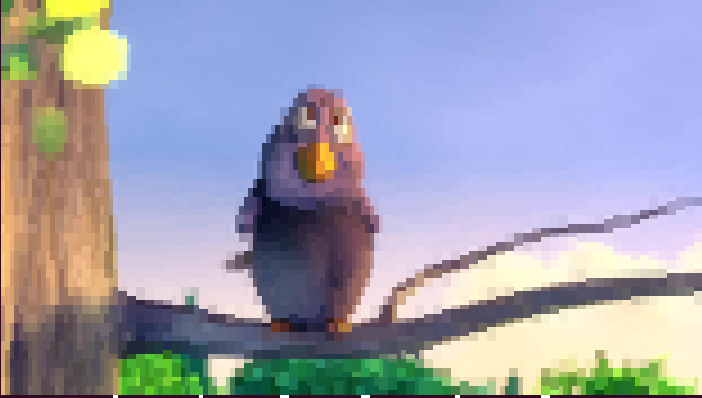
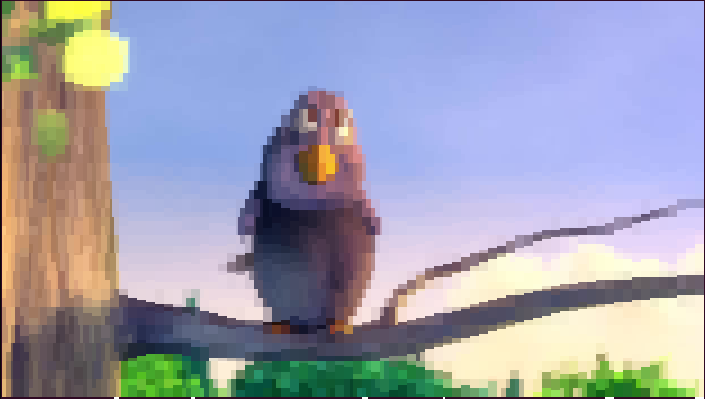
better results with bigger char collapse window

diff --git a/my-poc-helper.py b/my-poc-helper.py
@@ -21,6 +21,12 @@ def fg_rgb(r: int , g: int , b: int) -> str:
 def bg_rgb(r: int , g: int , b: int) -> str:
     return f"\u001b[48;2;{r};{g};{b}m"
 
+def fg_gray(gray: int) -> str:
+    return f"\u001b[38;2;{gray};{gray};{gray}m"
+
+def bg_gray(gray: int) -> str:
+    return f"\u001b[48;2;{gray};{gray};{gray}m"
+
 def color_reset() -> str:
     return "\u001b[0m"
 
@@ -187,10 +193,12 @@ BLOCK_CHAR = {
 STATS = {}
 
 class CharWindow:
-    """Char collapse window: 4x2 (rows x cols) sized pixel"""
+    """Char collapse window: RxC (rows x cols) sized pixel"""
+    R, C = 8, 4 #4, 2  # rows, cols
     
     def __init__(self) -> None:
         self.char_window_rgb = [] # list of rgb tuple
+        self.grayscale = None  # list of gray values
 
     def reset(self):
         self.char_window_rgb = []
@@ -199,17 +207,30 @@ class CharWindow:
         self.char_window_rgb.extend( row_rgb )
 
     def print(self) -> None:
-        for r in range(0, 8, 4):
-            for c in range(2):
+        """Test purposes"""
+        for r in range(0, CharWindow.R*CharWindow.C, CharWindow.R):
+            for c in range(CharWindow.C):
                 fg = self.char_window_rgb[r+c+0]
-                bg = self.char_window_rgb[r+c+2]
+                bg = self.char_window_rgb[r+c+CharWindow.C]
                 print( fg_rgb(*fg) + bg_rgb(*bg) + "▀" + color_reset(), end="" )
             print()
-
+        print()
+        # grayscale
+        for r in range(0, CharWindow.R*CharWindow.C, CharWindow.R):
+            for c in range(CharWindow.C):
+                fg = to_grayscale( *self.char_window_rgb[r+c+0] )
+                bg = to_grayscale( *self.char_window_rgb[r+c+CharWindow.C] )
+                print( fg_gray(fg) + bg_gray(bg) + "▀" + color_reset(), end="" )
+            print()
 
     def get_upscaled_rgb(self, r: int, c: int) -> tuple[int, int, int]:
         """Upscaled window is 8x8 pixel. So 'r' and 'c' range in [0, 7]."""
-        return self.char_window_rgb[ (r//2) * 2 + (c//4) ]
+        if (CharWindow.R,CharWindow.C) == (4,2):
+            return self.char_window_rgb[ (r//2) * 2 + (c//4) ]
+        elif (CharWindow.R,CharWindow.C) == (8,4):
+            return self.char_window_rgb[ r*4 + (c//2) ]
+        else:
+            raise Exception("Usupported (R,C) !")
 
     def best_ansi_char(self) -> str:
         best_char, best_fg, best_bg, best_score = None, None, None, math.inf
@@ -280,14 +301,14 @@ img_rgb = list( zip( *[iter(img_rgb)]*3 ) )
 
 def build_window(r: int, c: int) -> CharWindow:
     win = CharWindow()
-    for dr in range(4):
-        idx = (4*r+dr) * cols
-        win.add_row_rgb( [img_rgb[idx + c*2+0], img_rgb[idx + c*2+1]] )
+    for dr in range(CharWindow.R):
+        base = (CharWindow.R*r+dr) * cols
+        win.add_row_rgb( [ img_rgb[base + c*CharWindow.C+dc]  for dc in range(CharWindow.C) ] )
     return win
 
 # TEST
 def test():
-    tst =  build_window( random.randint(0, rows//4-1), random.randint(0, cols//2-1) )
+    tst =  build_window( random.randint(0, rows//CharWindow.R-1), random.randint(0, cols//CharWindow.C-1) )
     tst.print()
     for char in BLOCK_CHAR:
         fg,bg = compute_fg_bg(char,tst)
@@ -299,8 +320,8 @@ def test():
 #quit()
 
 
-for r in range(rows//4):
-    for c in range(cols//2):
+for r in range(rows//CharWindow.R):
+    for c in range(cols//CharWindow.C):
         win = build_window(r, c)
         print(win.best_ansi_char(), end='')
     print() # new line and flush
